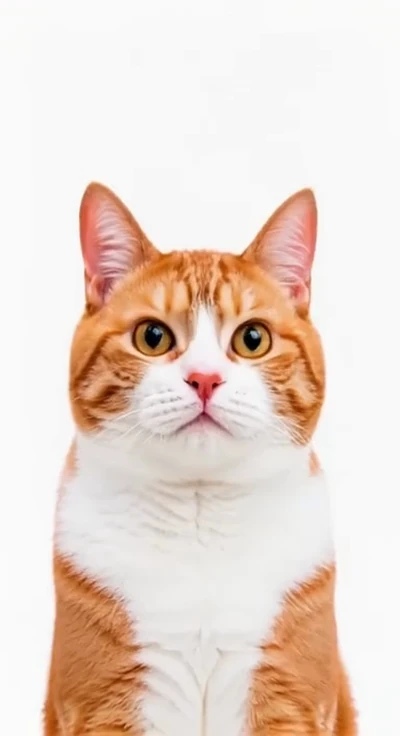
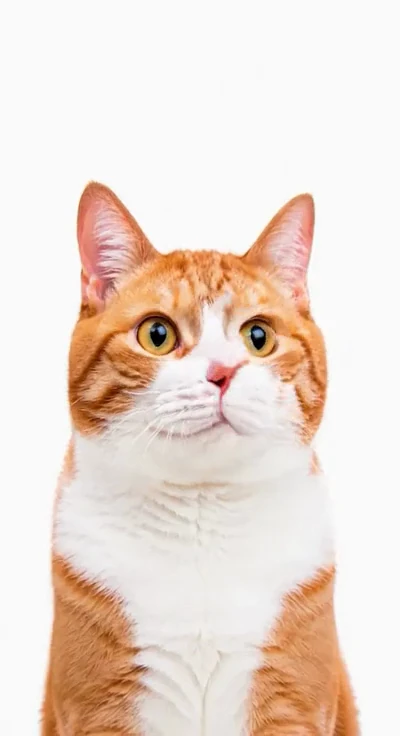
fix(cat-cursor): interpolate right gaze with FILM

diff --git a/pages/cat-cursor/script.js b/pages/cat-cursor/script.js
@@ -1,5 +1,5 @@
 const CIRCLE_FRAME_COUNT = 96;
-const ASSET_VERSION = '20260827-5';
+const ASSET_VERSION = '20260827-6';
 
 const circlePointers = Array.from({ length: CIRCLE_FRAME_COUNT }, (_, index) => {
   const angle = -(index / CIRCLE_FRAME_COUNT) * Math.PI * 2;
@@ -17,13 +17,21 @@ const circlePointers = Array.from({ length: CIRCLE_FRAME_COUNT }, (_, index) => 
 
 const generatedPointers = [
   { id: 'CENTER', x: 0, y: 0, file: 'center.webp' },
+  { id: 'R6.25', x: 0.0625, y: 0, file: 'right-6-25.webp' },
   { id: 'R12.5', x: 0.125, y: 0, file: 'right-12-5.webp' },
+  { id: 'R18.75', x: 0.1875, y: 0, file: 'right-18-75.webp' },
   { id: 'R25', x: 0.25, y: 0, file: 'right-25.webp' },
+  { id: 'R31.25', x: 0.3125, y: 0, file: 'right-31-25.webp' },
   { id: 'R37.5', x: 0.375, y: 0, file: 'right-37-5.webp' },
+  { id: 'R43.75', x: 0.4375, y: 0, file: 'right-43-75.webp' },
   { id: 'R50', x: 0.5, y: 0, file: 'right-50.webp' },
+  { id: 'R56.25', x: 0.5625, y: 0, file: 'right-56-25.webp' },
   { id: 'R62.5', x: 0.625, y: 0, file: 'right-62-5.webp' },
+  { id: 'R68.75', x: 0.6875, y: 0, file: 'right-68-75.webp' },
   { id: 'R75', x: 0.75, y: 0, file: 'right-75.webp' },
+  { id: 'R81.25', x: 0.8125, y: 0, file: 'right-81-25.webp' },
   { id: 'R87.5', x: 0.875, y: 0, file: 'right-87-5.webp' },
+  { id: 'R93.75', x: 0.9375, y: 0, file: 'right-93-75.webp' },
   { id: 'L12.5', x: -0.125, y: 0, file: 'left-12-5.webp' },
   { id: 'L25', x: -0.25, y: 0, file: 'left-25.webp' },
   { id: 'L37.5', x: -0.375, y: 0, file: 'left-37-5.webp' },

diff --git a/pages/cat-cursor/index.html b/pages/cat-cursor/index.html
@@ -5,7 +5,7 @@
   <meta name="viewport" content="width=device-width, initial-scale=1.0, maximum-scale=1.0, user-scalable=no">
   <meta name="theme-color" content="#ffffff">
   <title>Cat Cursor</title>
-  <link rel="stylesheet" href="style.css?v=20260827-5">
+  <link rel="stylesheet" href="style.css?v=20260827-6">
 </head>
 <body>
   <main id="cat-stage" class="cat-stage" aria-label="커서를 따라 시선을 움직이는 고양이">
@@ -33,10 +33,10 @@
       <span id="sequence-name">X</span>
       <span id="frame-number">CENTER</span>
       <span>/</span>
-      <span id="frame-total">29</span>
+      <span id="frame-total">37</span>
     </div>
   </main>
 
-  <script type="module" src="script.js?v=20260827-5"></script>
+  <script type="module" src="script.js?v=20260827-6"></script>
 </body>
 </html>

diff --git a/pages/cat-cursor/spec.md b/pages/cat-cursor/spec.md
@@ -3,10 +3,10 @@
 ## Interaction
 
 - The original cat video is decomposed into a 96-frame circular WebP sequence at 24 fps.
-- Twenty-nine keyframes fill the missing cross: one shared center plus seven intermediate poses between center and each original cardinal frame.
-- The seven center-to-right poses are sampled at equal intervals from one LTX-2.5 first/last-frame video. The center and original right cardinal frame remain unchanged, so the generated video contributes only intermediate poses.
-- The other three axes use standalone generated poses. All cross-path intermediates are normalized to the original 400 × 736 frame size before runtime.
-- Each of the 125 source images owns a normalized pointer position: 96 around the circle and 29 along the central cross.
+- Thirty-seven keyframes fill the missing cross: one shared center, fifteen center-to-right intermediates, and seven intermediates for each of the other three cardinal directions.
+- The fifteen center-to-right poses are generated at 6.25% intervals with FILM using a 16× interpolation multiplier. The center and original right cardinal frame remain unchanged, so only the fifteen model-generated middle frames are added to the path.
+- The other three axes use standalone generated poses. All cross-path intermediates use the original 400 × 736 frame size before runtime.
+- Each of the 133 source images owns a normalized pointer position: 96 around the circle and 37 along the central cross.
 - Pointer coordinates are normalized from the cat's face to the four edges of the stage. The image whose pointer has the smallest two-dimensional distance from the cursor is displayed.
 - Debug mode displays every image pointer and highlights the active one. Use the on-screen `Points` button, press `D`, or append `?debug=1` to the URL to enable it.
 - Debug pointer screen positions are recalculated from normalized coordinates when the viewport changes size.
@@ -17,6 +17,6 @@
 
 ## Loading
 
-- All 125 frames preload and decode before interaction begins.
+- All 133 frames preload and decode before interaction begins.
 - The poster remains hidden behind the loading state until the sequence is ready.
 - The page then swaps predecoded frame URLs without seeking a video element.
